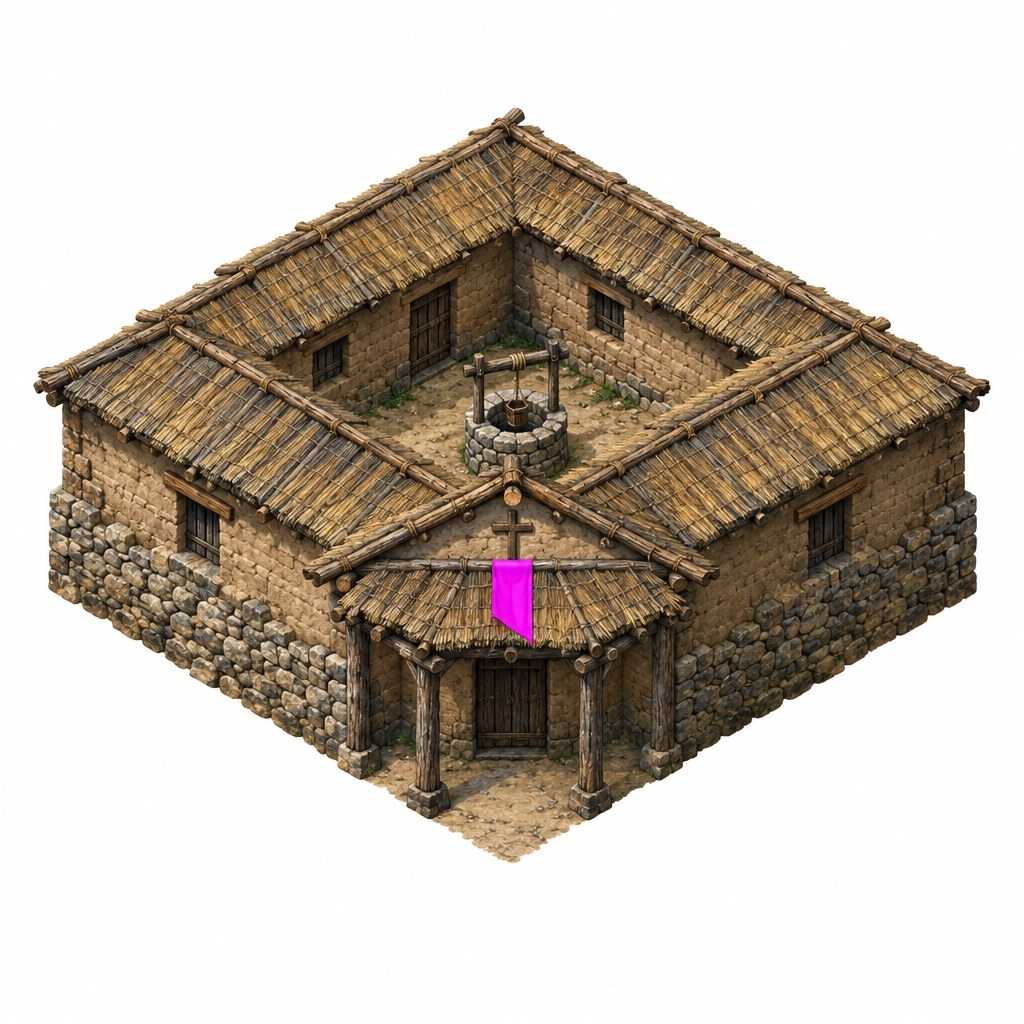
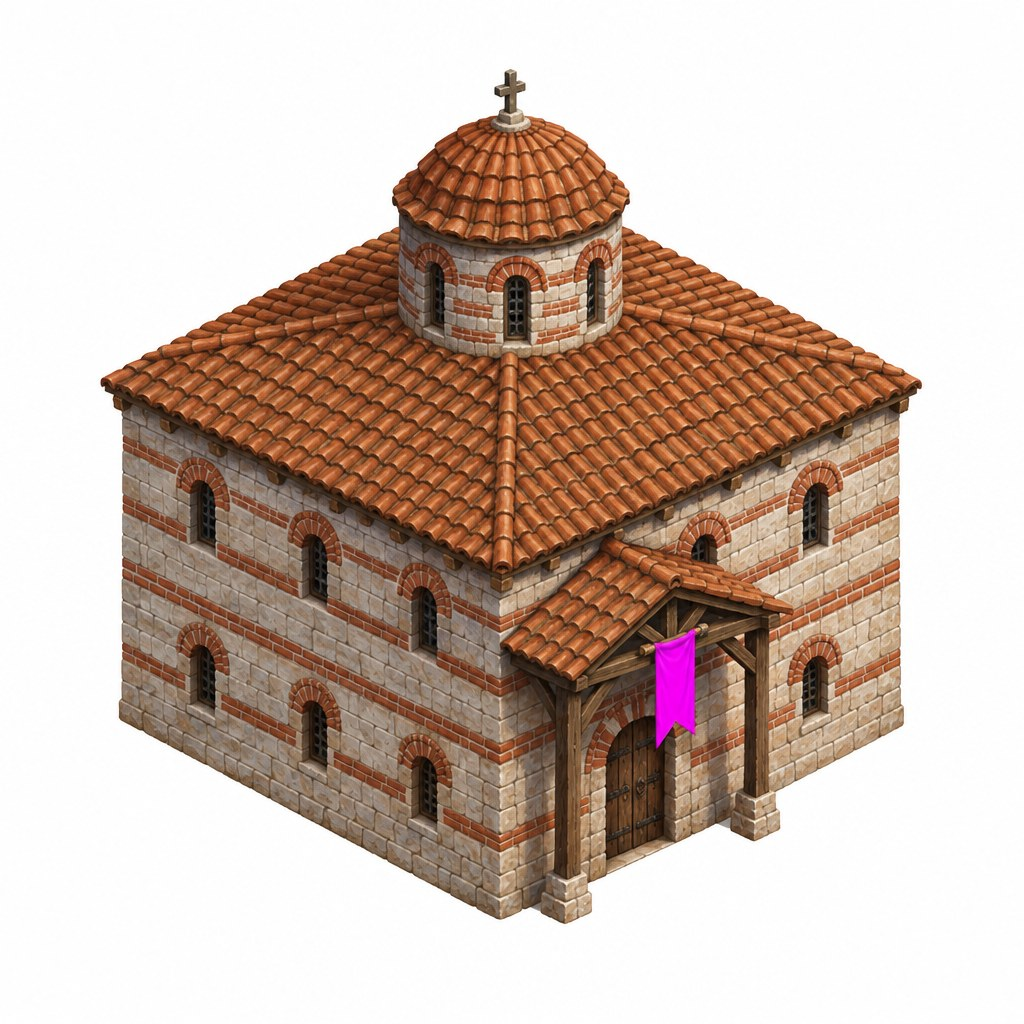
New Byzantine Dark Age Town Center; easier unit taps on touch; work sounds only for selected villagers
Claude-Session: https://claude.ai/code/session_01Kh61o643ycZGrcqCLU97Et

diff --git a/js/ui.js b/js/ui.js
@@ -428,10 +428,12 @@ document.addEventListener('touchmove', e => { if (e.touches.length > 1) e.preven
     for (const e of G.ents) {
       if (e.dead || e.kind !== 'unit') continue;
       if (e.owner !== 1 && !G.isVisible(e.x, e.y)) continue;
-      const s = G.toScreen(e.x, e.y);
-      const d = Math.hypot(s.x - sx, s.y - 12 * z - sy);
-      const r = (G.mounted(e) ? 22 : 18) * Math.max(z, 0.8);
-      if (d < r && d < bd) { bd = d; best = e; }
+      // the whole figure is the target, feet to head, with a little extra room for a fingertip
+      const s = G.toScreen(e.x, e.y), k = Math.max(z, 0.8), hgt = (G.mounted(e) ? 52 : 40) * k, half = (G.mounted(e) ? 20 : 14) * k + 6;
+      const dx = Math.abs(sx - s.x), up = s.y - sy;
+      if (dx > half || up < -10 * k || up > hgt + 8) continue;
+      const d = Math.hypot(dx, up - hgt / 2);
+      if (d < bd) { bd = d; best = e; }
     }
     if (best) return best;
     // buildings / resources: check tile under finger, and tiles "behind" it for tall sprites
@@ -979,7 +981,7 @@ document.addEventListener('touchmove', e => { if (e.touches.length > 1) e.preven
     p.x = e.clientX; p.y = e.clientY;
     if (!gesture) return;
     if (gesture.type === 'pending') {
-      if (Math.hypot(e.clientX - gesture.x, e.clientY - gesture.y) > 9) {
+      if (Math.hypot(e.clientX - gesture.x, e.clientY - gesture.y) > (gesture.mouse ? 9 : 16)) {
         clearHold();
         if (gesture.mouse && mode !== 'place') { G.boxSel = { x0: p.sx, y0: p.sy, x1: e.clientX, y1: e.clientY }; gesture = { type: 'box' }; }
         else gesture = { type: 'pan', samples: [] };

diff --git a/js/entities.js b/js/entities.js
@@ -2,6 +2,8 @@
 (function () {
   let nextId = 1;
   const snd = (k, x, y) => G.sound && G.sound.play(k, x, y);
+  // work sounds follow the player's attention: only villagers they have selected chop, mine and hammer audibly
+  const workSnd = (u, k) => { if (u.owner === 1 && G.selection && G.selection.includes(u)) snd(k, u.x, u.y); };
   G.setNextId = n => { nextId = n; };
   G.ents = [];
   G.byId = new Map();
@@ -841,7 +843,7 @@
             const k = Math.min(1, dt * 2.5 * (ed - 0.3) / ed);
             u.x += (cx - u.x) * k; u.y += (cy - u.y) * k;
           }
-          snd({ tree: 'chop', gold: 'mine', stone: 'mine', berry: 'farm' }[r.rtype] || 'chop', u.x, u.y);
+          workSnd(u, { tree: 'chop', gold: 'mine', stone: 'mine', berry: 'farm' }[r.rtype] || 'chop');
           if (u.carry && u.carry.res !== r.rtype) u.carry = null;
           if (!u.carry) u.carry = { res: r.rtype, amt: 0 };
           let rate = G.RES[r.type].rate * (G.fastGather || 1);
@@ -939,7 +941,7 @@
         if (b.built && b.hp >= b.maxHp) { afterBuild(u, b); break; }
         if (G.edgeDist(u, b) <= 0.8 || (b.type === 'farm' && u.x >= b.tx && u.x <= b.tx + b.size && u.y >= b.ty && u.y <= b.ty + b.size)) {
           u.path = []; faceTo(u, b); u.working = true;
-          snd('build', u.x, u.y);
+          workSnd(u, 'build');
           if (!b.built) {
             const inc = dt / b.def.time * (G.fastBuild || 1) * (1 + G.techEff(u.owner, 'build'));
             b.progress = Math.min(1, b.progress + inc);
